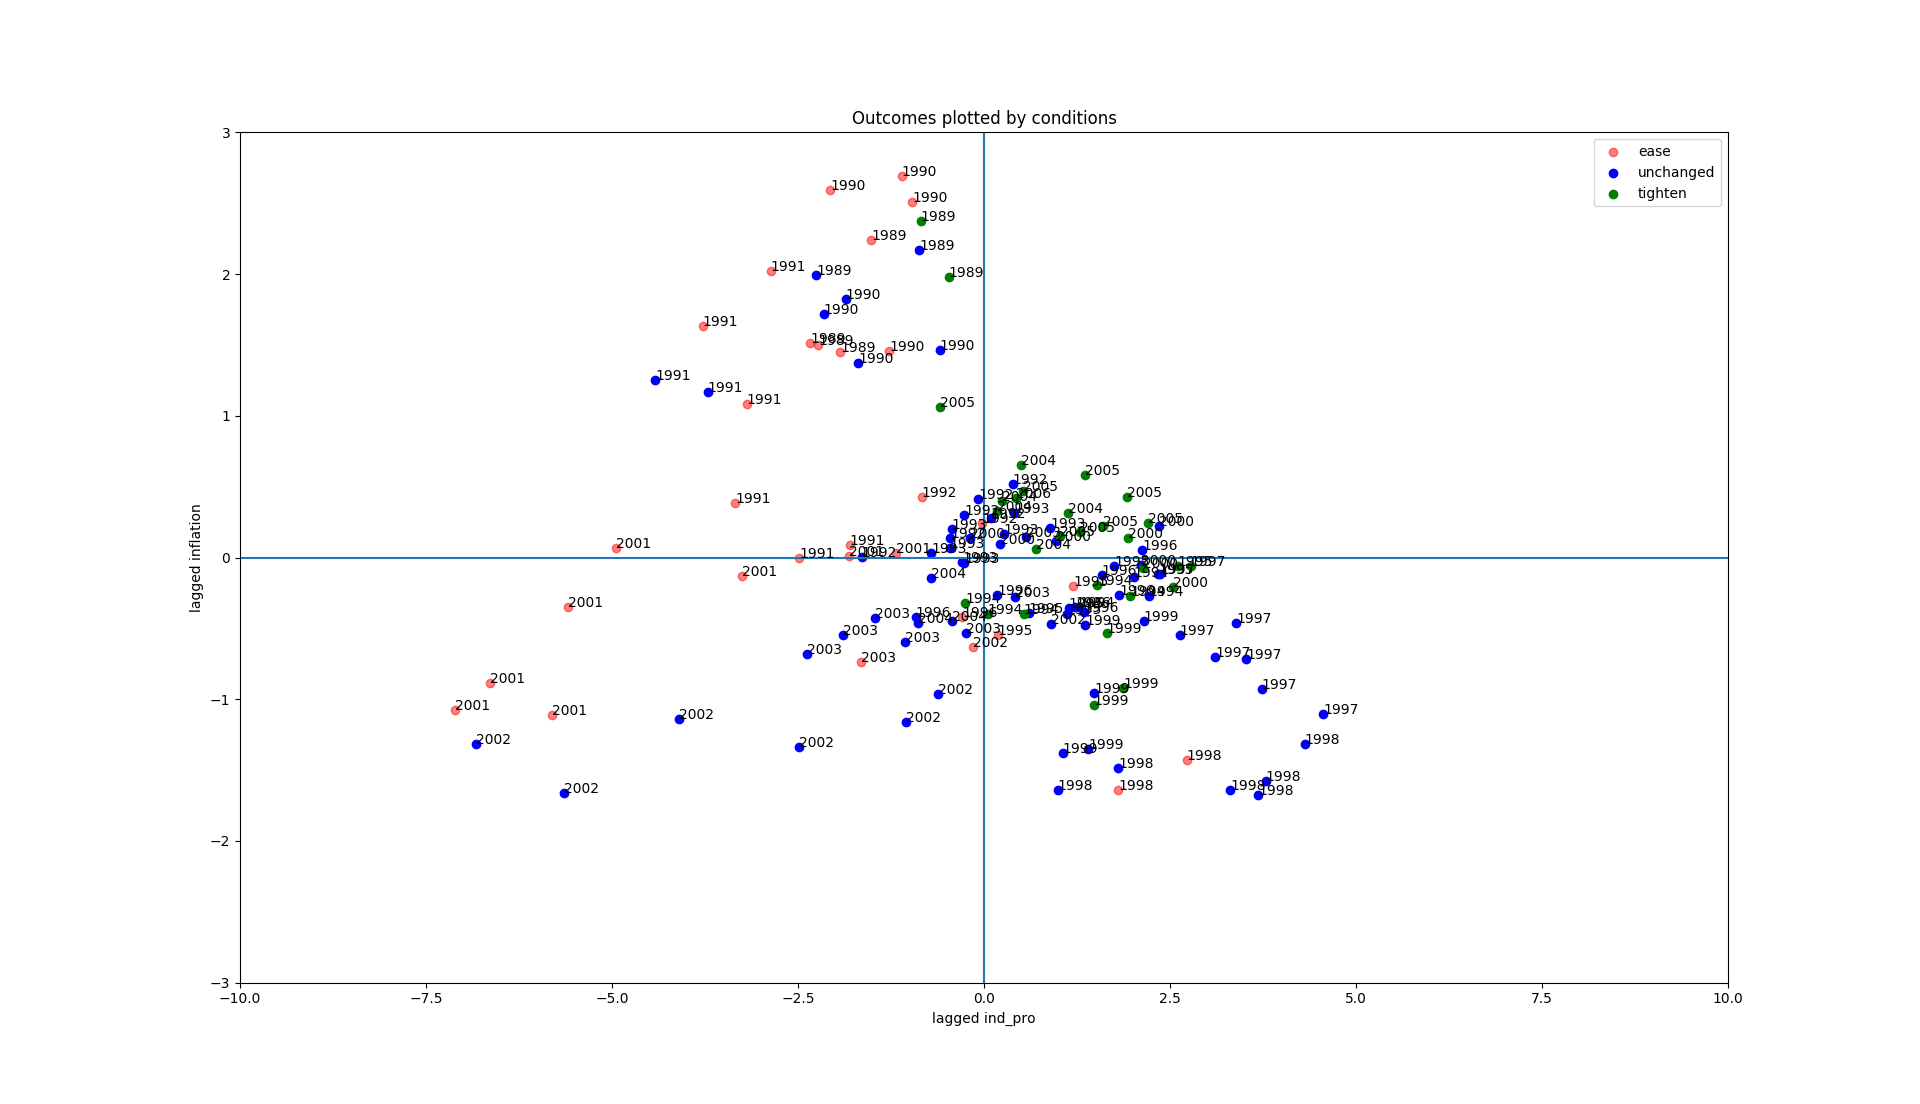
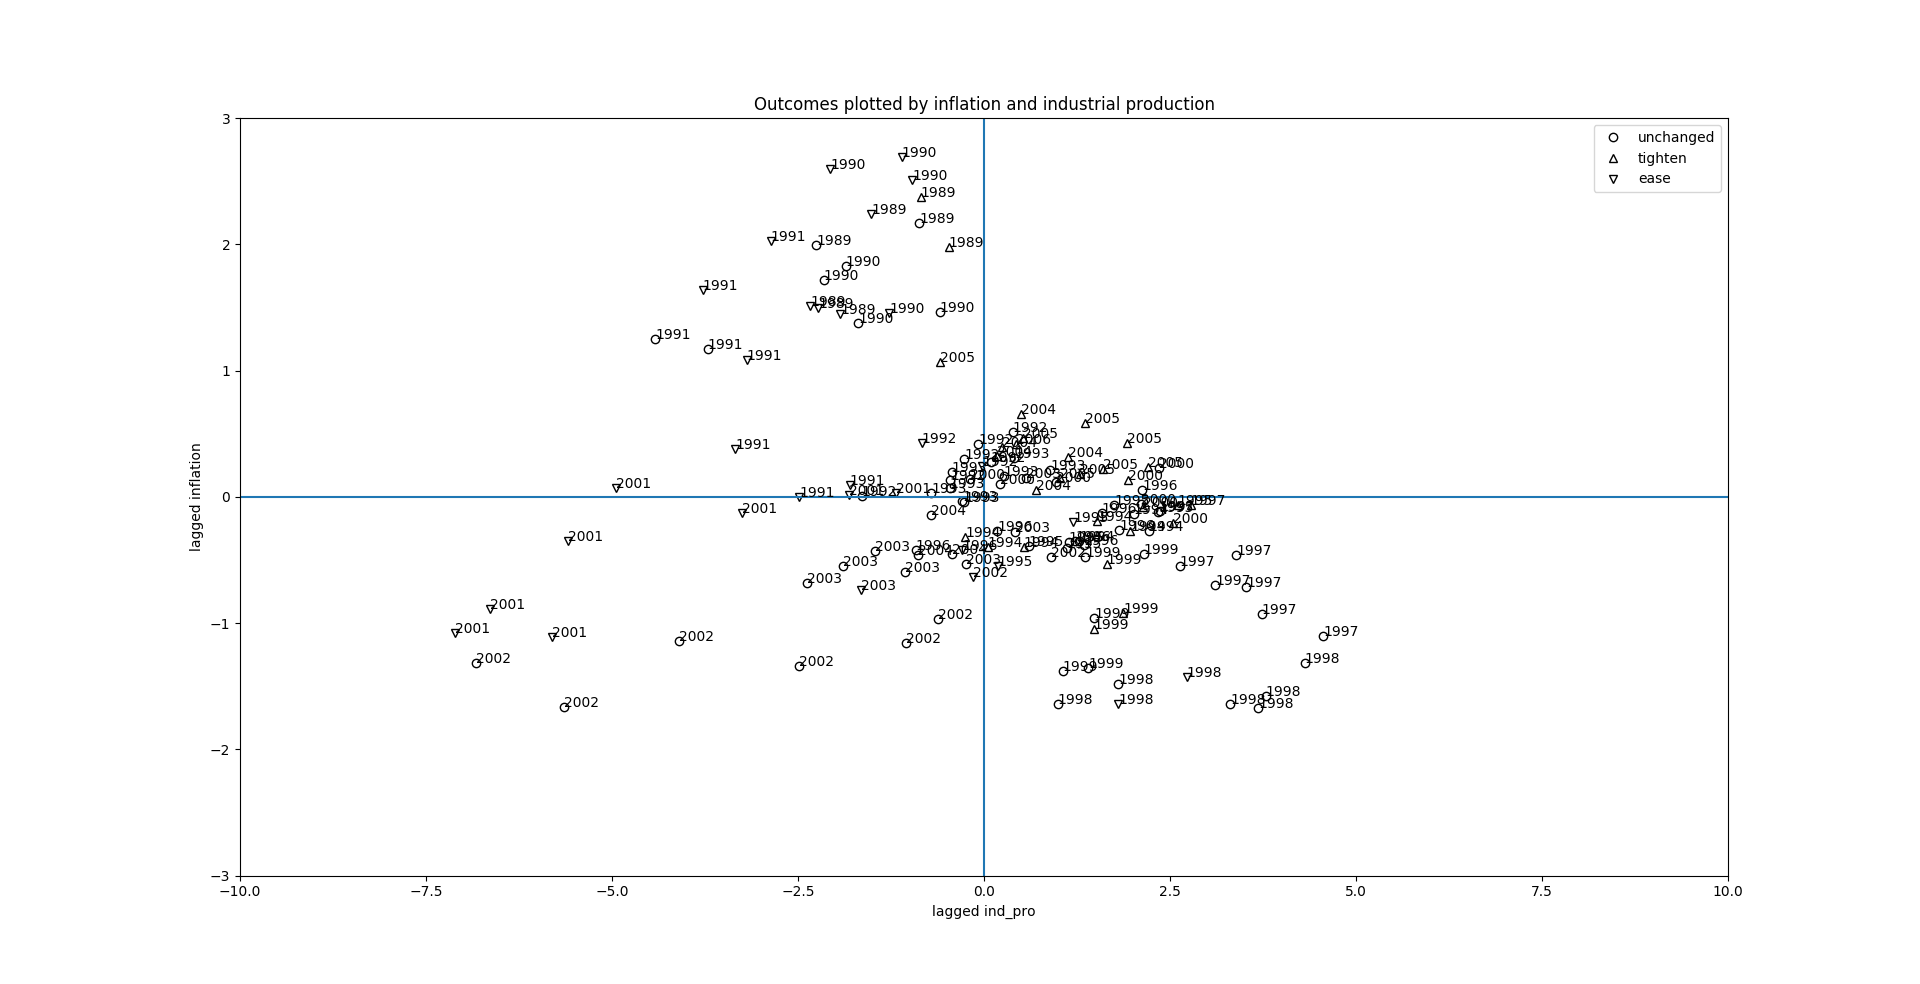
added black and white graphs of outcomes and follow up
Former-commit-id: bcfbe511dae40637ed3bbe290255f2c5cf3d95ba

diff --git a/src/analysis/python/scripts/produce_dec_under_conditions.py b/src/analysis/python/scripts/produce_dec_under_conditions.py
@@ -8,7 +8,9 @@ def main():
     #inf_and_unemp()
     #nrou()
     ind_pro()
-    nt_and_ne()
+    #nt_and_ne()
+    #moving_average()
+    nt_and_ne_no()
 def inf_and_unemp():
     df = pd.read_csv("../../matlab/data/matlab_file.csv")
     fig = plt.figure()
@@ -21,7 +23,7 @@ def inf_and_unemp():
     u_df = s_df[s_df.etu_outcome == 0]
 
     ax_1.scatter(x=e_df["lagged_unemp"], y=e_df['l1_ld_inflation_yearly'],
-                 c="red", label="ease",alpha=0.5)
+                 c="red", label="ease")
     
     ax_1.scatter(x=u_df["lagged_unemp"],y=u_df['l1_ld_inflation_yearly'],c="blue")
     ax_1.scatter(x=t_df["lagged_unemp"], y=t_df['l1_ld_inflation_yearly'],
@@ -92,29 +94,35 @@ def ind_pro():
     t_df = s_df[s_df.etu_outcome == 1]
     u_df = s_df[s_df.etu_outcome == 0]
 
-    ax_1.scatter(e_df['lagged_reduced_ind_pro'], y=e_df['l1_ld_inflation_yearly'],
-                 c="red", label="ease",alpha=0.5)
     
-    ax_1.scatter(x=u_df["lagged_reduced_ind_pro"],y=u_df['l1_ld_inflation_yearly'],c="blue",label="unchanged")
     
-    ax_1.scatter(x=t_df["lagged_reduced_ind_pro"], y=t_df['l1_ld_inflation_yearly'],
-                 c="green", label="tighten")
+    ax_1.plot(u_df["lagged_reduced_ind_pro"],u_df['l1_ld_inflation_yearly'],
+                "ok", label="unchanged",fillstyle="none",
+                )
+    ax_1.plot(t_df["lagged_reduced_ind_pro"], t_df['l1_ld_inflation_yearly'],
+                "^k", label="tighten",fillstyle="none",
+                )
+
+    ax_1.plot(e_df['lagged_reduced_ind_pro'], e_df['l1_ld_inflation_yearly'],
+                "vk",  label="ease", fillstyle="none",
+                )
 
     
     for i, txt in enumerate(pd.to_datetime(s_df.date_m).dt.year):
         ax_1.annotate(\
             txt, (s_df.lagged_reduced_ind_pro.iat[i], s_df.l1_ld_inflation_yearly.iat[i]))
 
-    plt.xlabel("lagged ind_pro")
+    plt.xlabel("lagged industrial production")
     plt.ylabel("lagged inflation")
     plt.xlim((-10,10))
     plt.ylim((-3,3))
     plt.axhline()
     plt.axvline()
     plt.legend()
-    plt.title("Outcomes plotted by conditions")
+    plt.title("Outcomes plotted by inflation and industrial production")
     plt.show()
-    fig.savefig("../output/conditions_outcomes/ind_pro_and_inflation_outcomes.png")
+    fig.savefig("../output/conditions_outcomes/ind_pro_and_inflation_outcomes.png",
+        loc='upper right', )
 
 def nt_and_ne():
     df = pd.read_csv("../../matlab/data/matlab_file.csv")
@@ -178,7 +186,7 @@ def nt_and_ne():
         ax_1.annotate(\
             txt, (ne_df.lagged_reduced_ind_pro.iat[i], ne_df.l1_ld_inflation_yearly.iat[i]))
 
-    plt.xlabel("lagged ind_pro")
+    plt.xlabel("lagged industrial production")
     plt.ylabel("lagged inflation")
     plt.xlim((-10,10))
     plt.ylim((-3,3))
@@ -188,5 +196,149 @@ def nt_and_ne():
     plt.title("Outcome plotted by conditions and menu")
     plt.show()
     fig.savefig("../output/conditions_outcomes/ind_pro_and_inflation_ne_nt.png")
+
+def moving_average():
+    for period in [5,10,15,20]:
+        df = pd.read_csv("../../matlab/data/matlab_file.csv")
+
+
+        ind_pro_df = pd.read_csv("../data/ind_pro_ch.csv")
+        
+        df['date'] = pd.to_datetime(df.date_m)
+        ind_pro_df['date'] = pd.to_datetime(ind_pro_df.DATE)
+        df = pd.merge(df,ind_pro_df,on="date",how="left")
+
+        fig = plt.figure()
+        ax_1 = fig.add_subplot(111)
+        s_df = df[ (df['d_meeting'] == 1)]
+        s_df = s_df[(s_df.date>pd.to_datetime('08-1-1987'))&(s_df.date<pd.to_datetime('02-1-2006'))]
+        
+        s_df['5_year_period'] = s_df.reset_index().index//period
+
+        means = s_df.groupby('5_year_period')['INDPRO_CH1'].mean().reset_index().rename(columns={"INDPRO_CH1":"m_average"})
+        
+        
+        s_df = s_df.merge(means,on="5_year_period")
+        s_df['lagged_reduced_ind_pro'] = (s_df['INDPRO_CH1']-s_df['m_average']).shift(1)
+        print(s_df['m_average'])
+        print(s_df[['INDPRO_CH1','lagged_reduced_ind_pro']])
+        s_df['l1_ld_inflation_yearly'] = s_df['l1_ld_inflation_yearly']-s_df['l1_ld_inflation_yearly'].mean()
+
+        #print(s_df['lagged_reduced_ind_pro'])
+        #print(s_df[(s_df.d_menu_adj_inc==0)&(s_df.d_menu_adj_dec==0)])
+        #print(s_df[[x for x in s_df.columns if "d_menu_adj" in x]])
+        
+
+        nt_df = s_df[s_df.d_menu_adj_inc!=1]
+        nt_e_df = nt_df[nt_df.etu_outcome == -1]
+        nt_t_df = nt_df[nt_df.etu_outcome == 1]
+        nt_u_df = nt_df[nt_df.etu_outcome == 0]
+
+        
+        ne_df = s_df[s_df.d_menu_adj_dec!=1]
+        ne_e_df = ne_df[ne_df.etu_outcome == -1]
+        ne_t_df = ne_df[ne_df.etu_outcome == 1]
+        ne_u_df = ne_df[ne_df.etu_outcome == 0]
+
+
+        #Circles for no tightening option
+        ax_1.scatter(x=nt_e_df['lagged_reduced_ind_pro'], y=nt_e_df['l1_ld_inflation_yearly'],
+                     c="red", label="no_tightening_in_menu_outcome_easing",marker='o')
+        
+        ax_1.scatter(x=nt_u_df["lagged_reduced_ind_pro"],y=nt_u_df['l1_ld_inflation_yearly'],
+            c="blue",label="no_tightening_in_menu_outcome_unchanged",marker='o')
+        
+        ax_1.scatter(x=nt_t_df["lagged_reduced_ind_pro"], y=nt_t_df['l1_ld_inflation_yearly'],
+                     c="green", label="no_tightening_in_menu_outcome_tightening",marker='o')
+
+        #Squares for no easing option
+        ax_1.scatter(x=ne_e_df['lagged_reduced_ind_pro'], y=ne_e_df['l1_ld_inflation_yearly'],
+                     c="red", label="no_easing_in_menu_outcome_easing",marker='s')
+        
+        ax_1.scatter(x=ne_u_df["lagged_reduced_ind_pro"],y=ne_u_df['l1_ld_inflation_yearly'],
+            c="blue",label="no_easing_in_menu_outcome_unchanged",marker='s')
+        
+        ax_1.scatter(x=ne_t_df["lagged_reduced_ind_pro"], y=ne_t_df['l1_ld_inflation_yearly'],
+                     c="green", label="no_easing_in_menu_outcome_tighten",marker='s')
+        
+        for i, txt in enumerate(pd.to_datetime(nt_df.date_m).dt.year):
+            ax_1.annotate(\
+                txt, (nt_df.lagged_reduced_ind_pro.iat[i], nt_df.l1_ld_inflation_yearly.iat[i]))
+        for i, txt in enumerate(pd.to_datetime(ne_df.date_m).dt.year):
+            ax_1.annotate(\
+                txt, (ne_df.lagged_reduced_ind_pro.iat[i], ne_df.l1_ld_inflation_yearly.iat[i]))
+
+        plt.xlabel("lagged ind_pro")
+        plt.ylabel("lagged inflation")
+        plt.xlim((-10,10))
+        plt.ylim((-3,3))
+        plt.axhline()
+        plt.axvline()
+        plt.legend()
+        plt.title("Outcome plotted by conditions and menu")
+        plt.show()
+        fig.savefig("../output/conditions_outcomes/ind_pro_and_inflation_ne_nt_{}_year_m_a.png".format(period))
+def nt_and_ne_no():
+    df = pd.read_csv("../../matlab/data/matlab_file.csv")
+
+
+    ind_pro_df = pd.read_csv("../data/ind_pro_ch.csv")
+    
+    df['date'] = pd.to_datetime(df.date_m)
+    ind_pro_df['date'] = pd.to_datetime(ind_pro_df.DATE)
+    df = pd.merge(df,ind_pro_df,on="date",how="left")
+
+    fig = plt.figure()
+    ax_1 = fig.add_subplot(111)
+    s_df = df[ (df['d_meeting'] == 1)]
+    s_df = s_df[(s_df.date>pd.to_datetime('08-1-1987'))&(s_df.date<pd.to_datetime('02-1-2006'))]
+    s_df['lagged_reduced_ind_pro'] = (s_df['INDPRO_CH1']-s_df['INDPRO_CH1'].mean()).shift(1)
+
+    s_df['l1_ld_inflation_yearly'] = s_df['l1_ld_inflation_yearly']-s_df['l1_ld_inflation_yearly'].mean()
+
+    #print(s_df['lagged_reduced_ind_pro'])
+    #print(s_df[(s_df.d_menu_adj_inc==0)&(s_df.d_menu_adj_dec==0)])
+    #print(s_df[[x for x in s_df.columns if "d_menu_adj" in x]])
+    
+
+    nt_df = s_df[s_df.d_menu_adj_inc!=1]
+    #nt_e_df = nt_df[nt_df.etu_outcome == -1]
+    #nt_t_df = nt_df[nt_df.etu_outcome == 1]
+    #nt_u_df = nt_df[nt_df.etu_outcome == 0]
+
+    
+    ne_df = s_df[s_df.d_menu_adj_dec!=1]
+    #ne_e_df = ne_df[ne_df.etu_outcome == -1]
+    #ne_t_df = ne_df[ne_df.etu_outcome == 1]
+    #ne_u_df = ne_df[ne_df.etu_outcome == 0]
+
+
+    #Circles for no tightening option
+    ax_1.plot(nt_df['lagged_reduced_ind_pro'], nt_df['l1_ld_inflation_yearly'],
+        'xk', label="no_tightening_in_menu",fillstyle="none")
+    
+    
+    #Squares for no easing option
+    ax_1.plot(ne_df["lagged_reduced_ind_pro"], ne_df['l1_ld_inflation_yearly'],
+        'ok',label="no_easing_in_menu",fillstyle="none")
+    
+    for i, txt in enumerate(pd.to_datetime(nt_df.date_m).dt.year):
+        ax_1.annotate(\
+            txt, (nt_df.lagged_reduced_ind_pro.iat[i], nt_df.l1_ld_inflation_yearly.iat[i]))
+    for i, txt in enumerate(pd.to_datetime(ne_df.date_m).dt.year):
+        ax_1.annotate(\
+            txt, (ne_df.lagged_reduced_ind_pro.iat[i], ne_df.l1_ld_inflation_yearly.iat[i]))
+
+    plt.xlabel("lagged industrial production")
+    plt.ylabel("lagged inflation")
+    plt.xlim((-10,10))
+    plt.ylim((-3,3))
+    plt.axhline()
+    plt.axvline()
+    plt.legend()
+    plt.title("Outcome plotted by conditions and menu")
+    plt.show()
+    fig.savefig("../output/conditions_outcomes/ind_pro_and_inflation_ne_nt.png")
+
 if __name__ == "__main__":
     main()
